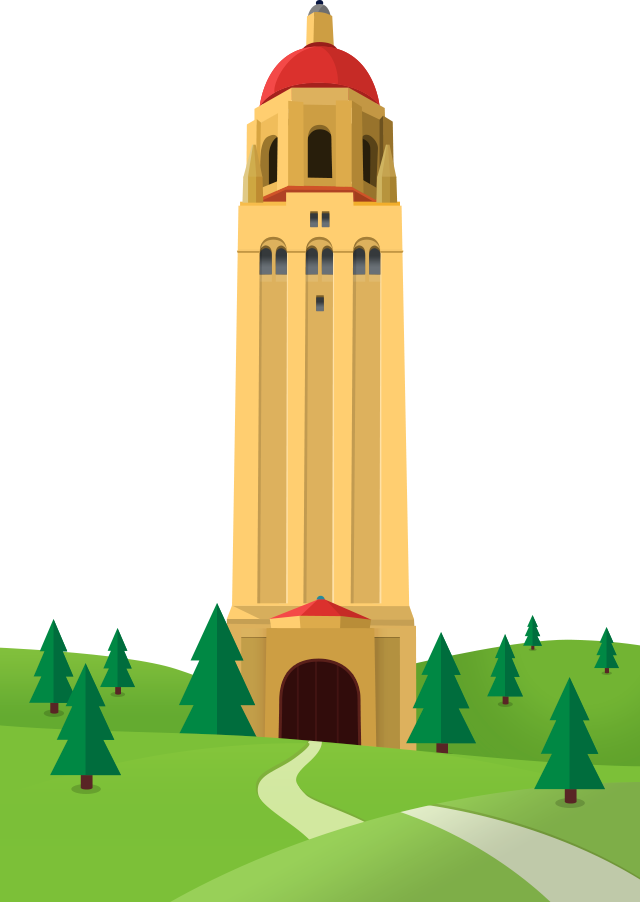
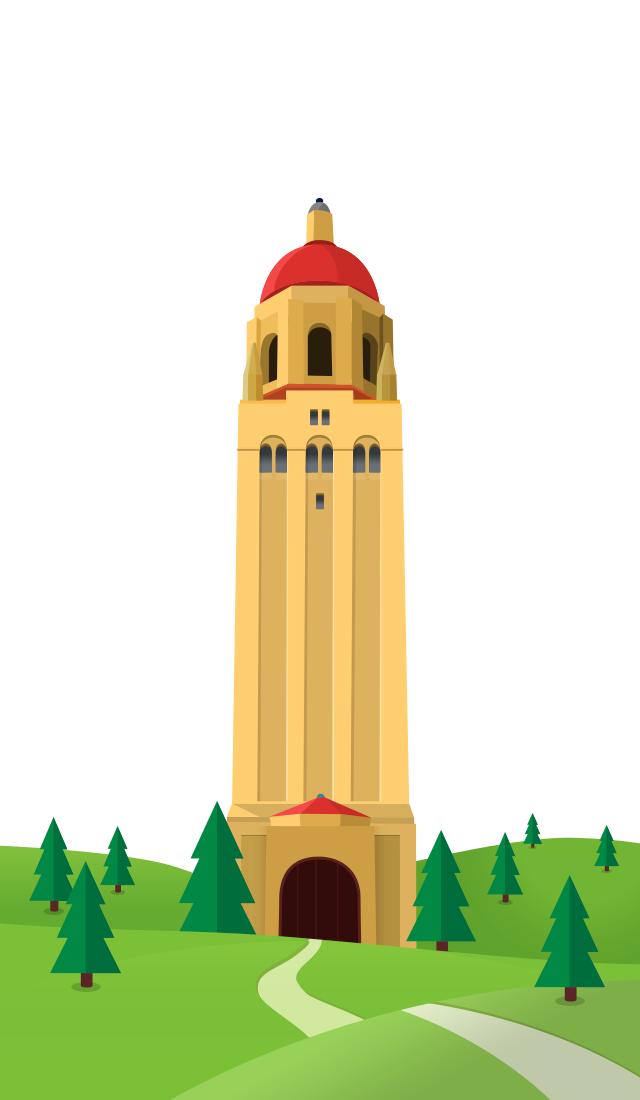
Day night feature in new chat completed. Fixes on foreground.

diff --git a/messaging/ChatViewAnimationsStanford.m b/messaging/ChatViewAnimationsStanford.m
@@ -7,6 +7,7 @@
 //
 
 #import "ChatViewAnimationsStanford.h"
+#import "AnimationDayController.h"
 
 @interface ChatViewAnimationsStanford ()
 
@@ -18,6 +19,8 @@
 @property (strong, nonatomic) UIImageView *windMillPole;
 @property (strong, nonatomic) UIImageView *blimp;
 @property (strong, nonatomic) UIImageView *balloon;
+
+@property (strong, nonatomic) AnimationDayController *dayController;
 
 @end
 
@@ -33,8 +36,10 @@ static BOOL goBack = NO;
     self = [super initWithFrame:frame];
     if (self)
     {
+        self.dayController = [AnimationDayController sharedInstance];
         
-        [self setBackgroundColor:[UIColor colorWithPatternImage:[ImageFormatterHelper resizeImage:[UIImage imageNamed:@"background_day"] withSize:frame.size]]];
+        
+        [self setBackgroundColor:[UIColor colorWithPatternImage:[ImageFormatterHelper resizeImage:[UIImage imageNamed:[self.dayController backgroundImage]] withSize:frame.size]]];
 
         [self initObjectsWithFrame:frame];
         
@@ -43,9 +48,6 @@ static BOOL goBack = NO;
         [self startStandardAnimations];
         
         [self addCloudsImages];
-        
-        
-        //[self addCloudsArrayToView];
         
         [self setUpTimers];
         
@@ -56,28 +58,30 @@ static BOOL goBack = NO;
 -(void)initObjectsWithFrame:(CGRect)frame
 {
     self.clouds = [[NSMutableArray alloc] init];
-    self.forground = [[UIImageView alloc] initWithImage:[ImageFormatterHelper resizeImage:[UIImage imageNamed:@"hills"] withSize:frame.size]];
     
-    UIImage *sunImage = [UIImage imageNamed:@"sun"];
+    
+    self.forground = [[UIImageView alloc] initWithImage:[ImageFormatterHelper resizeImage:[UIImage imageNamed:[self.dayController forground]] withSize:frame.size]];
+    
+    UIImage *sunImage = [UIImage imageNamed:[self.dayController sunMoon]];
     
     self.sunMoon = [[UIImageView alloc] initWithImage:sunImage];
     [self.sunMoon setFrame:CGRectMake(10.0f, 20.0f, sunImage.size.width/2, sunImage.size.height/2)];
     
-    UIImage *windPole = [UIImage imageNamed:@"pole"];
-    UIImage *windBlades = [UIImage imageNamed:@"blades_copy"];
+    UIImage *windPole = [UIImage imageNamed:[self.dayController pole]];
+    UIImage *windBlades = [UIImage imageNamed:[self.dayController blades]];
     
     self.windMillPole = [[UIImageView alloc] initWithImage:windPole];
-    [self.windMillPole setFrame:CGRectMake(280.0f, 350.0f, windPole.size.width/2, windPole.size.height/2)];
+    [self.windMillPole setFrame:CGRectMake(280.0f, 370.0f, windPole.size.width/2, windPole.size.height/2)];
     
     self.windMillBlades = [[UIImageView alloc] initWithImage:windBlades];
-    [self.windMillBlades setFrame:CGRectMake(264.0f, 333.0f, windBlades.size.width/2, windBlades.size.height/2)];
+    [self.windMillBlades setFrame:CGRectMake(264.0f, 353.0f, windBlades.size.width/2, windBlades.size.height/2)];
     
     
-    UIImage *ballonImg = [UIImage imageNamed:@"hot_air_balloon"];
+    UIImage *ballonImg = [UIImage imageNamed:[self.dayController balloon]];
     self.balloon = [[UIImageView alloc] initWithImage:ballonImg];
     [self.balloon setFrame:CGRectMake(230.0f, 100.0f, ballonImg.size.width/2, ballonImg.size.height/2)];
     
-    UIImage *blimpImg = [UIImage imageNamed:@"blimp"];
+    UIImage *blimpImg = [UIImage imageNamed:[self.dayController blimp]];
     self.blimp = [[UIImageView alloc] initWithImage:blimpImg];
     [self.blimp setFrame:CGRectMake(320, 100.0f, blimpImg.size.width/2, blimpImg.size.height/2)];
     
@@ -146,18 +150,18 @@ static BOOL goBack = NO;
 
 -(void)addCloudsImages
 {
-    UIImage *cloud1Img = [UIImage imageNamed:@"cloud1"];
+    UIImage *cloud1Img = [UIImage imageNamed:[self.dayController cloud1]];
     
 //    UIImageView *cloudSmall = [[UIImageView alloc] initWithImage:cloud1Img];
 //    [cloudSmall setFrame:CGRectMake(70, 120, cloud1Img.size.width/2, cloud1Img.size.height/2)];
     
-    UIImage *cloud2Img = [UIImage imageNamed:@"cloud2"];
+    UIImage *cloud2Img = [UIImage imageNamed:[self.dayController cloud2]];
     
 //    UIImageView *cloudMedium = [[UIImageView alloc] initWithImage:cloud2Img];
 //    [cloudMedium setFrame:CGRectMake(10, 40, cloud2Img.size.width/2, cloud2Img.size.height/2)];
 
     
-    UIImage *cloud3Img = [UIImage imageNamed:@"cloud3"];
+    UIImage *cloud3Img = [UIImage imageNamed:[self.dayController cloud3]];
     
 //    UIImageView *cloudBig = [[UIImageView alloc] initWithImage:cloud3Img];
 //    [cloudBig setFrame:CGRectMake(155, 50, cloud3Img.size.width/2, cloud3Img.size.height/2)];
@@ -166,15 +170,6 @@ static BOOL goBack = NO;
     [self.clouds addObject:cloud2Img];
     [self.clouds addObject:cloud3Img];
 
-}
-
--(void)addCloudsArrayToView
-{
-    for(UIImageView *imageView in self.clouds)
-    {
-        [imageView setHidden:YES];
-        [self addSubview:imageView];
-    }
 }
 
 #pragma mark - Animations

diff --git a/messaging/AnimationDayController.m b/messaging/AnimationDayController.m
@@ -1,0 +1,119 @@
+//
+//  AnimationDayController.m
+//  Gleepost
+//
+//  Created by Silouanos on 13/01/2014.
+//  Copyright (c) 2014 Gleepost. All rights reserved.
+//
+
+#import "AnimationDayController.h"
+
+@interface AnimationDayController ()
+
+@property (assign, nonatomic) BOOL day;
+@property (strong, nonatomic) NSTimer *checkDay;
+
+@end
+
+@implementation AnimationDayController
+
+static AnimationDayController *instance = nil;
+
++ (AnimationDayController *)sharedInstance
+{
+    static dispatch_once_t onceToken;
+    dispatch_once(&onceToken, ^{
+        instance = [[AnimationDayController alloc] init];
+    });
+    
+    return instance;
+}
+
+- (id)init
+{
+    self = [super init];
+    if(!self)
+    {
+        return nil;
+    }
+    
+    self.day = NO;
+    
+    self.checkDay = [NSTimer scheduledTimerWithTimeInterval:10.0f target:self selector:@selector(decideDay:) userInfo:nil repeats:YES];
+    [self.checkDay fire];
+    
+    return self;
+}
+
+
+-(void)decideDay:(id)sender
+{
+    
+    if(self.day)
+    {
+        self.day = NO;
+    }
+    else
+    {
+        self.day = YES;
+    }
+    
+    NSLog(@"DAY: %d",self.day);
+
+}
+
+#pragma mark - Images' names
+
+-(NSString*)backgroundImage
+{
+    return self.day ? @"background_day" : @"background_night";
+}
+
+-(NSString*)forground
+{
+    return self.day ? @"hills" : @"hills_night";
+}
+
+-(NSString*)sunMoon
+{
+    return self.day ? @"sun" : @"sun_night";
+}
+
+-(NSString*)cloud1
+{
+    return self.day ? @"cloud1" : @"cloud1_night";
+}
+
+-(NSString*)cloud2
+{
+    return self.day ? @"cloud2" : @"cloud2_night";
+}
+
+-(NSString*)cloud3
+{
+    return self.day ? @"cloud3" : @"cloud3_night";
+}
+
+-(NSString*)pole
+{
+    return self.day ? @"pole" : @"pole_night";
+}
+
+-(NSString*)blades
+{
+    return self.day ? @"blades_copy" : @"blades_night_copy";
+}
+
+-(NSString*)balloon
+{
+    return self.day ? @"hot_air_balloon" : @"hot_air_balloon_night";
+}
+
+-(NSString*)blimp
+{
+    return self.day ? @"blimp" : @"blimp_night";
+}
+
+
+
+@end

diff --git a/messaging/AnimationDayController.h b/messaging/AnimationDayController.h
@@ -1,0 +1,29 @@
+//
+//  AnimationDayController.h
+//  Gleepost
+//
+//  Created by Silouanos on 13/01/2014.
+//  Copyright (c) 2014 Gleepost. All rights reserved.
+//
+
+#import <Foundation/Foundation.h>
+
+@interface AnimationDayController : NSObject
+
++ (AnimationDayController *)sharedInstance;
+
+
+
+-(NSString*)backgroundImage;
+-(NSString*)forground;
+-(NSString*)sunMoon;
+-(NSString*)cloud1;
+-(NSString*)cloud2;
+-(NSString*)cloud3;
+-(NSString*)pole;
+-(NSString*)blades;
+-(NSString*)balloon;
+-(NSString*)blimp;
+
+
+@end
